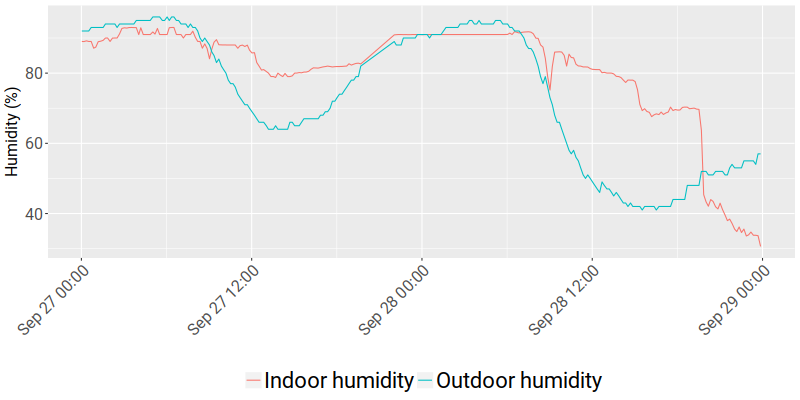
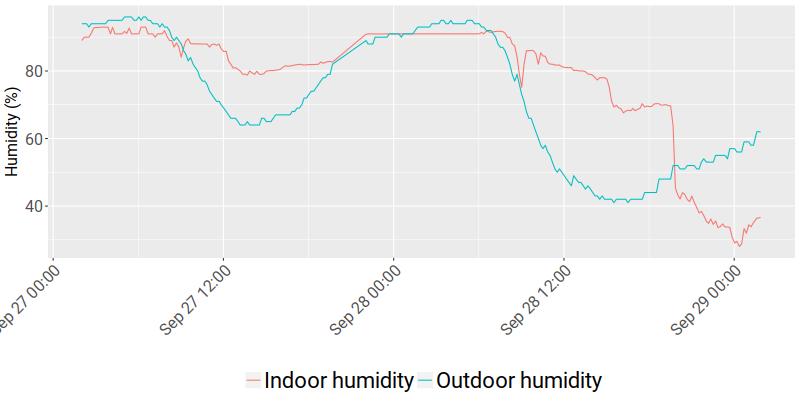
Update live temperature on site

diff --git a/temperature.js b/temperature.js
@@ -1,1 +1,1 @@
-document.write("<h4>Inside Temperature: 18.64°C</h4><h4>Outside Temperature: 13.97°C</h4><h4>Fermenter 1 Temperature: 16.38°C</h4><h4>Fermenter 2 Temperature: 17.06°C</h4><h4>Inside Humidity: 30.62%</h4><h4>Outside Humidity: 57.0%</h4><br>Last update: 2017-09-28 23:51:48");
+document.write("<h4>Inside Temperature: 17.8°C</h4><h4>Outside Temperature: 12.39°C</h4><h4>Fermenter 1 Temperature: 16.19°C</h4><h4>Fermenter 2 Temperature: 17.06°C</h4><h4>Inside Humidity: 36.61%</h4><h4>Outside Humidity: 62.0%</h4><br>Last update: 2017-09-29 01:51:27");
